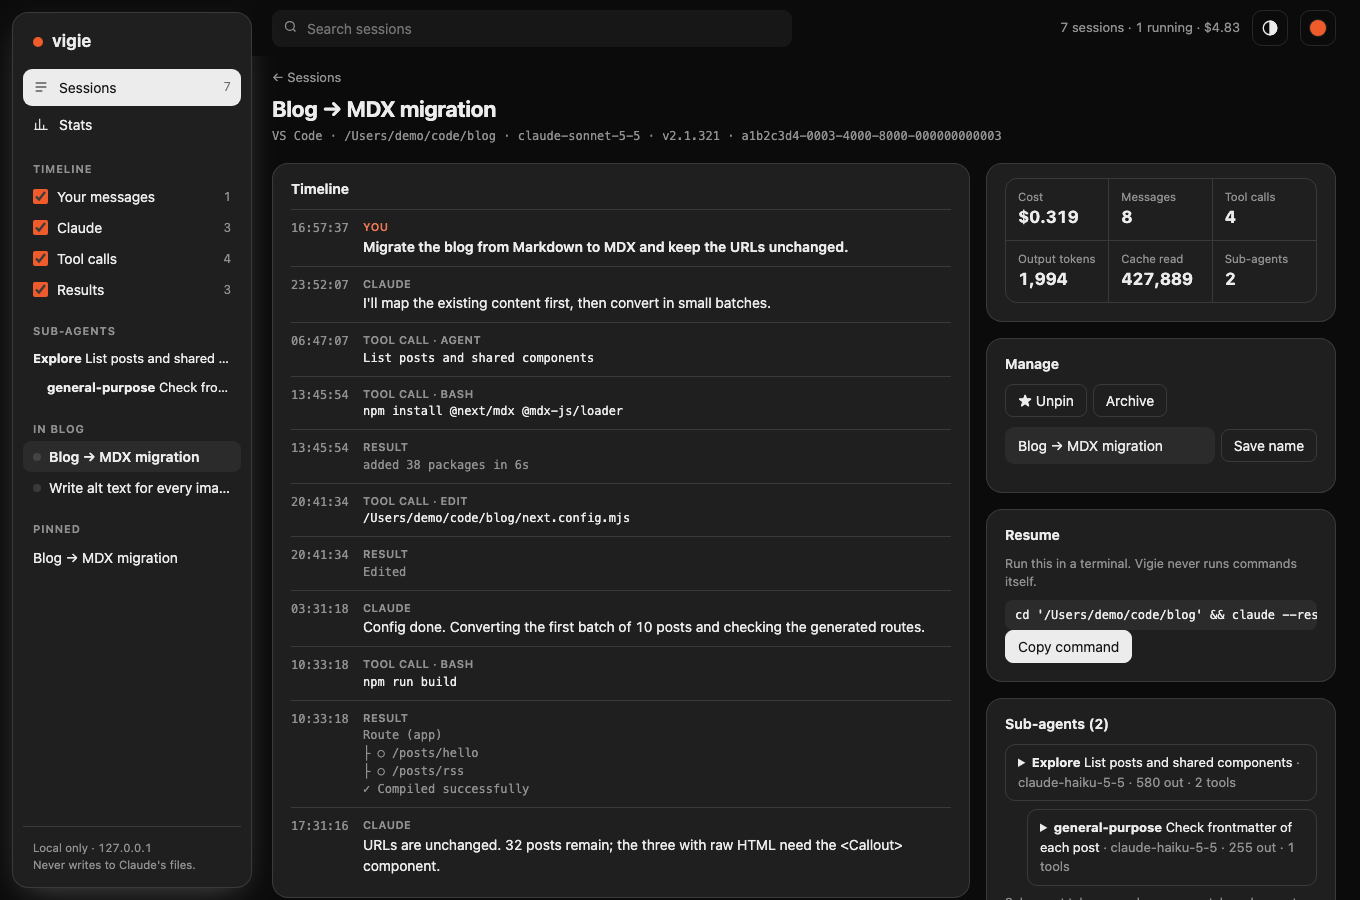
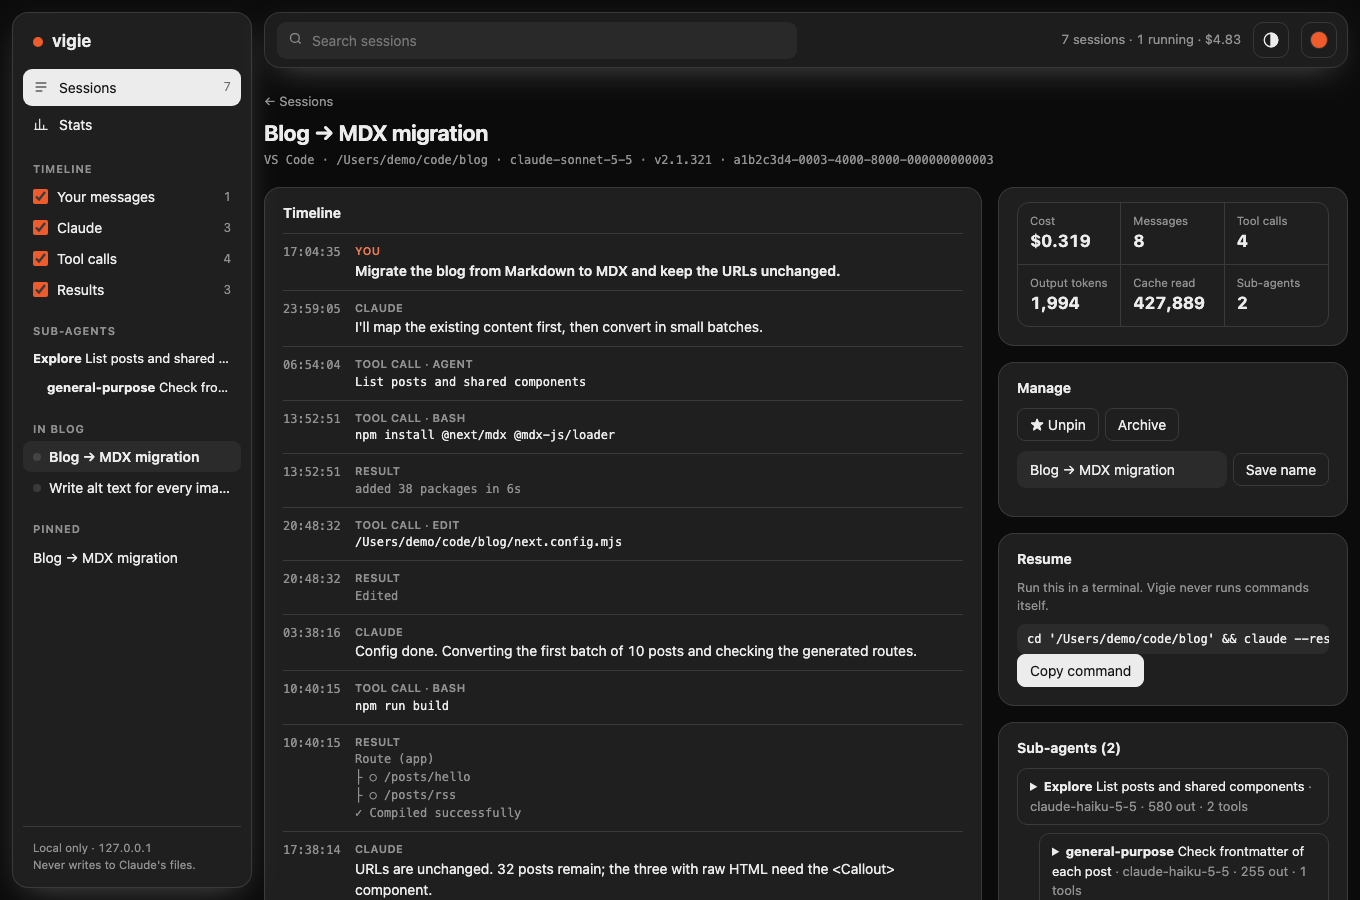
Make the header a floating card like the sidebar
The header is inset by a shared --gap (12 px, 8 px on small screens), with the same radius,
border and shadow as the sidebar, aligned with its top edge; content scrolls under it
(a sticky strip hides it in the gap above). Content cards and the sticky side column of the
session page are re-aligned on the new insets. Screenshots updated.

diff --git a/ui/style.css b/ui/style.css
@@ -10,6 +10,7 @@
   --soft: color-mix(in srgb, var(--fg) 6%, transparent);
   --muted: color-mix(in srgb, var(--fg) 58%, var(--bg));
   --accent-ink: color-mix(in srgb, var(--accent) 78%, var(--fg)); /* accent used as text: darker / lighter for contrast */
+  --gap: 12px; /* inset of the floating sidebar and header */
   --shadow: 0 10px 34px -14px color-mix(in srgb, var(--fg) 38%, transparent);
   --sans: system-ui, -apple-system, "Segoe UI", sans-serif;
   --mono: ui-monospace, "SF Mono", Menlo, Consolas, monospace;
@@ -83,7 +84,15 @@ input[type="text"]:focus, input[type="search"]:focus { background: var(--card); 
 .foot { margin-top: auto; padding: 12px 10px 2px; border-top: 1px solid var(--line); font-size: 11.5px; color: var(--muted); }
 
 .col { min-width: 0; }
-header { position: sticky; top: 0; z-index: 20; display: flex; align-items: center; gap: 12px; height: 56px; padding: 0 24px 0 20px; background: color-mix(in srgb, var(--page) 86%, transparent); backdrop-filter: blur(10px); }
+/* The header floats like the sidebar: a card inset by --gap, with its border and shadow.
+   The strip above it (the sticky ::before) hides the content that scrolls through the gap. */
+.col::before { content: ""; position: sticky; top: 0; z-index: 19; display: block; height: var(--gap); margin-bottom: calc(-1 * var(--gap)); background: var(--page); }
+header {
+  position: sticky; top: var(--gap); z-index: 20; display: flex; align-items: center; gap: 12px;
+  height: 56px; max-width: 1320px; margin: var(--gap) var(--gap) 0; padding: 0 10px 0 12px;
+  background: color-mix(in srgb, var(--card) 90%, transparent); backdrop-filter: blur(12px);
+  border: 1px solid var(--line); border-radius: 16px; box-shadow: var(--shadow);
+}
 .search { position: relative; flex: 1; max-width: 520px; }
 .search input { width: 100%; padding-left: 34px; }
 .search svg { position: absolute; left: 11px; top: 9px; width: 15px; height: 15px; stroke: var(--muted); fill: none; stroke-width: 2; pointer-events: none; }
@@ -110,7 +119,7 @@ header { position: sticky; top: 0; z-index: 20; display: flex; align-items: cent
 .custom { display: flex; align-items: center; gap: 10px; margin-bottom: 12px; color: var(--muted); }
 .custom input { width: 44px; height: 28px; padding: 0; border: 1px solid var(--line); border-radius: 6px; background: none; cursor: pointer; }
 
-main { padding: 4px 24px 60px 20px; max-width: 1320px; }
+main { padding: 16px var(--gap) 60px; max-width: 1320px; }
 h1 { margin: 0; font-size: 22px; line-height: 1.25; letter-spacing: -.01em; }
 
 /* ---------- cards ---------- */
@@ -187,7 +196,7 @@ td .p { margin-left: 17px; font: 12px var(--mono); color: var(--muted); }
 .dhead .meta { margin-top: 4px; color: var(--muted); overflow-wrap: anywhere; }
 .dgrid { display: grid; grid-template-columns: minmax(0, 1fr); gap: 16px; align-items: start; }
 .stack > .card + .card { margin-top: 16px; }
-@media (min-width: 1180px) { .dgrid { grid-template-columns: minmax(0, 1fr) 350px; } .dgrid > .stack { order: 2; position: sticky; top: 68px; max-height: calc(100vh - 84px); overflow: auto; } .dgrid > .card { order: 1; } }
+@media (min-width: 1180px) { .dgrid { grid-template-columns: minmax(0, 1fr) 350px; } .dgrid > .stack { order: 2; position: sticky; top: 84px; max-height: calc(100vh - 100px); overflow: auto; } .dgrid > .card { order: 1; } }
 .kv { display: grid; grid-template-columns: repeat(3, 1fr); margin: 14px 18px 18px; border: 1px solid var(--line); border-radius: 12px; overflow: hidden; }
 .kv div { padding: 9px 12px; border-right: 1px solid var(--line); border-bottom: 1px solid var(--line); }
 .kv div:nth-child(3n) { border-right: 0; }
@@ -247,8 +256,9 @@ details.agent.d4 { margin-left: 84px; }
   body.nav-open::before { content: ""; position: fixed; z-index: 34; inset: 0; background: color-mix(in srgb, var(--fg) 35%, transparent); }
   .menu { display: inline-block; }
   .side-close { display: inline-block; }
-  header { padding: 0 12px; gap: 8px; }
-  main { padding: 4px 12px 50px; }
+  :root { --gap: 8px; }
+  header { padding: 0 8px; gap: 8px; }
+  main { padding: 12px var(--gap) 50px; }
   .status { display: none; }
   .lane { grid-template-columns: 78px minmax(0, 1fr); }
   .axis { margin-left: 78px; }
